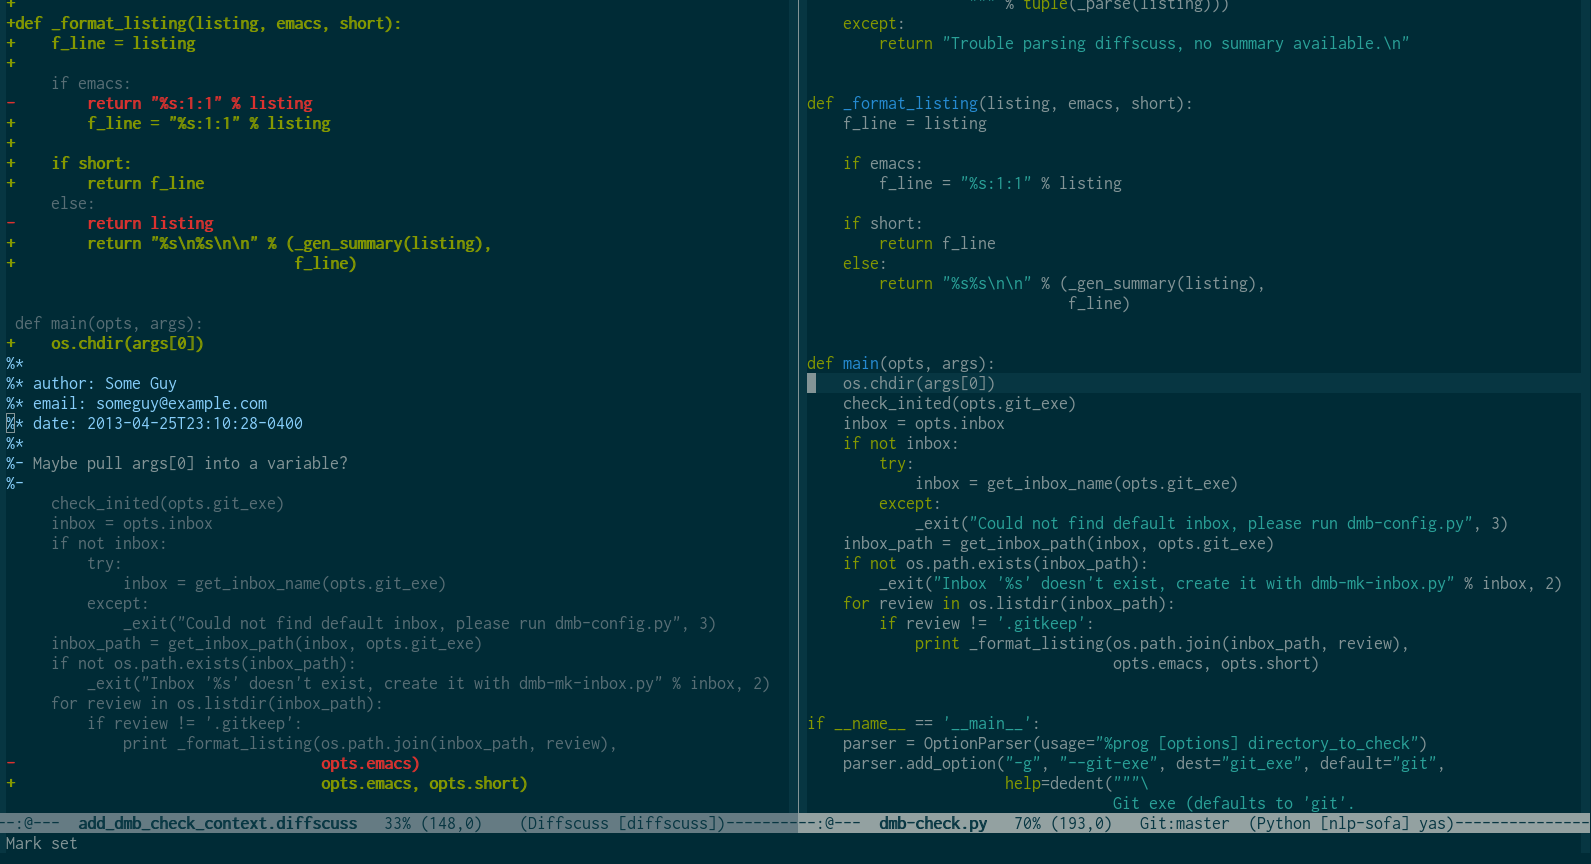
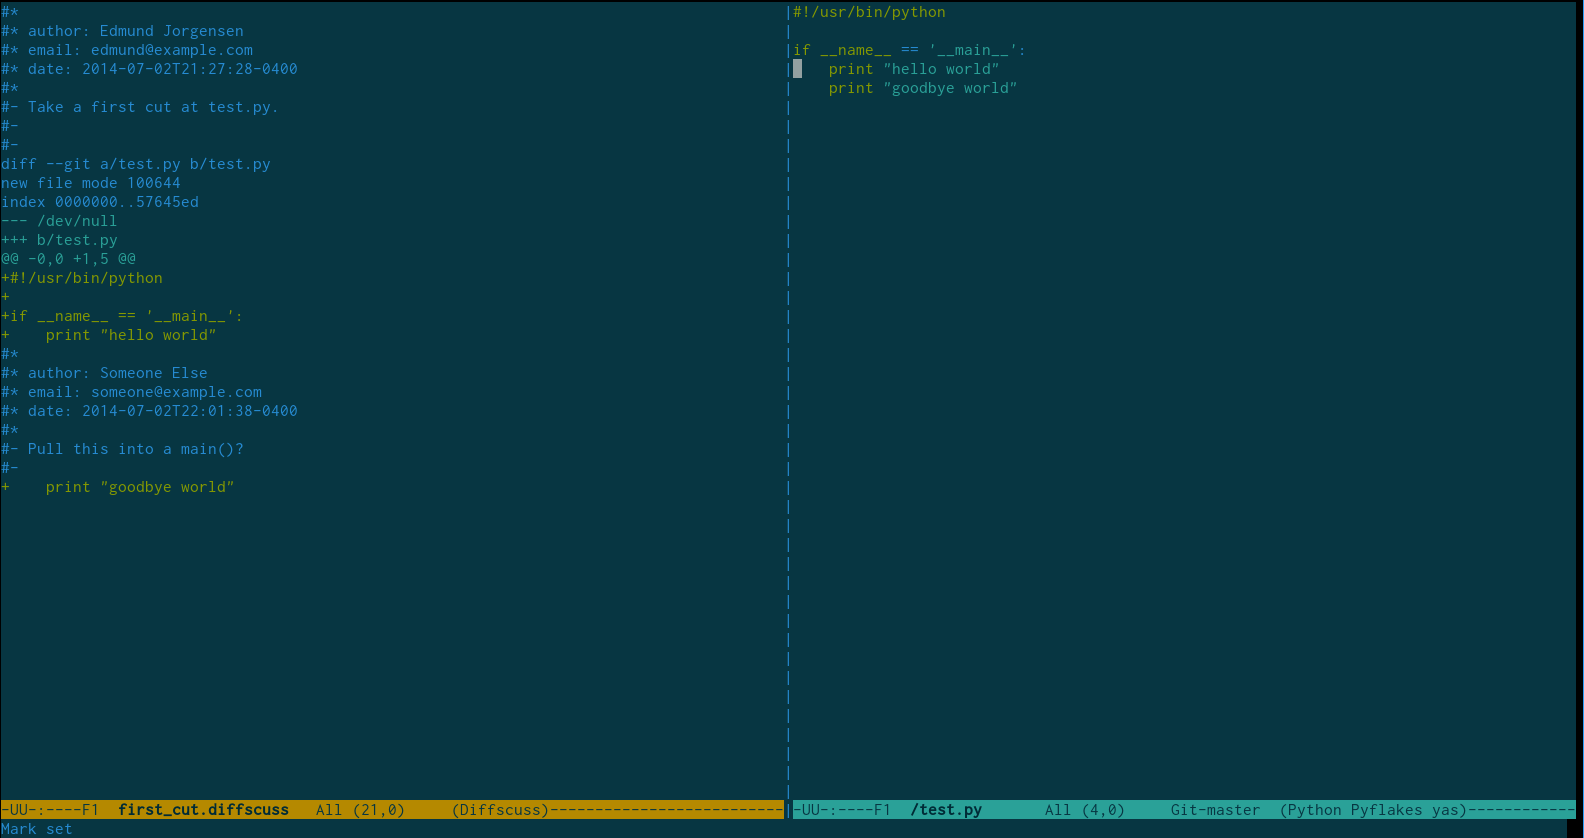
Update README.md and screenshots with new format.
References #36.

diff --git a/README.md b/README.md
@@ -17,8 +17,9 @@ Cheers!
 
 Diffscuss is:
 
-* a file format, built on the the unified diff format, that allows
-  threaded code reviews to exist inline with the diffs they address
+* a file format threaded code reviews to exist inline with the unified
+  diffs they address (any legal diffscuss file is also a legal unified
+  diff)
 
 * an Emacs mode and Vim plugin to support responding to / managing
   code reviews in that format (including jumping directly to the
@@ -60,13 +61,25 @@ Vimmortal, Vim).
 
 ## What Does a Diffscuss Review Look Like?
 
-Screenshot of a Diffscuss review in Emacs:
+Here's a diffscuss file newly created by "Edmund Jorgensen,"
+requesting review for a trivial python file.  Note the comment at the
+top of the file describing the review as a whole.
 
-![Emacs Screenshot](https://github.com/hut8labs/diffscuss/blob/master/doc/diffscuss-reading-review.png?raw=true)
+![Emacs Screenshot](https://github.com/hut8labs/diffscuss/blob/master/doc/diffscuss-created-review.png?raw=true)
 
-After jumping to source:
+In this screenshot, "Someone Else" has read the review and commented
+on the ```print "hello world"``` line.
+
+![Emacs Screenshot](https://github.com/hut8labs/diffscuss/blob/master/doc/diffscuss-added-comment.png?raw=true)
+
+Now "Edmund Jorgensen", while reading the comment, decides to take
+"Someone Else's" suggestion.  He hits ```C-c s``` in Emacs with his
+cursor on "Someone Else's" comment...
 
 ![Emacs Screenshot](https://github.com/hut8labs/diffscuss/blob/master/doc/diffscuss-jump-to-source.png?raw=true)
+
+And Emacs opens up a new buffer with the cursor positioned right on
+the line to which "Someone Else's" comment applied.
 
 ## Why Might You Want to Use Diffscuss?
 
@@ -210,9 +223,11 @@ subcommand.
 
 ## The Format in a Nutshell
 
-Diffscuss adds a single beginning-of-line character to the unified
-diff format: %, which marks the beginning of a comment line.  Lines
-beginning with %* are comment headers, and lines beginning with %- are
+Diffscuss piggybacks on unified diff comments (which are indicated by
+a leading #), with the consequence that a legal diffscuss file is
+still a legal diff, just with some extra comments (which ```patch```
+and related should ignore).  Lines beginning with #* are considered
+diffscuss comment headers, and lines beginning with #- are diffscuss
 comment bodies.  The number of * or - characters indicates reply
 threading.
 
@@ -409,7 +424,7 @@ know--or even better, contribute!
 
 ### Beginning of Line Marker
 
-All Diffscuss lines begin with one '%'.
+All Diffscuss lines begin with either '#*' (for a header) or '#-' (for a body).
 
 There's no limit to the length of a Diffscuss line, but keeping them
 80 chars or less when possible is probably good citizenship, since
@@ -422,11 +437,11 @@ header lines, followed by at least one body line.
 
 ### Header Lines
 
-A header line one '%' followed by at least one '*', followed by a
-space, followed by a header of the format 'field-name: value'.
+A header line is one '#' followed by at least one '*', followed by a space,
+followed by a header of the format 'field-name: value'.
 
-Header lines may also be empty, containing no 'field-name: value', in
-which case the space after the * is also optional.
+Header lines may also be empty, for spacing purposes, containing no
+'field-name: value', in which case the space after the * is also optional.
 
 A header line must always begin a comment or follow another header
 line.
@@ -434,15 +449,15 @@ line.
 For example, all three of these are valid header lines:
 
 ```
-%* author: Bob Jones
+#* author: Bob Jones
 ```
 
 ```
-%**
+#**
 ```
 
 ```
-%*** x-github-version: 1
+#*** x-github-version: 1
 ```
 
 The field name cannot contain whitespace.  The value cannot contain a
@@ -466,13 +481,13 @@ An author line is a standard header line with a field of 'author' and
 a value indicating who authored the comment.  For example:
 
 ```
-%* author: ejorgensen
+#* author: ejorgensen
 ```
 
 Or
 
 ```
-%** author: bsmith
+#** author: bsmith
 ```
 
 Every comment must begin with an author line.  All other headers are
@@ -485,7 +500,7 @@ time zone offset, e.g. 2013-11-22T23:11:21-0400.
 
 ### Body Lines
 
-A body line is one '%' character followed by at least one -, followed
+A body line is one '#' character followed by at least one -, followed
 by a space, followed by arbitrary text.
 
 Exception: for an empty body line, the space is optional.
@@ -493,17 +508,17 @@ Exception: for an empty body line, the space is optional.
 For example:
 
 ```
-%- This is a body line.
+#- This is a body line.
 ```
 
 ```
-%-- And so is *this*.
+#-- And so is *this*.
 ```
 
 ```
-%- and this next body line
-%-
-%- is empty, so doesn't need a space, but could have one.
+#- and this next body line
+#-
+#- is empty, so doesn't need a space, but could have one.
 ```
 
 A body line must always follow a header line or another body line.
@@ -515,26 +530,26 @@ A thread is one or more adjacent comments, properly threaded.
 For example, this is a thread:
 
 ```
-%* author: ejorgensen
-%- I'm a one comment thread.
+#* author: ejorgensen
+#- I'm a one comment thread.
 ```
 
 And so is this:
 
 ```
-%* author: ejorgensen
-%- I'm a two comment thread.
-%* author: bsmith
-%- With no replies, just two top level comments.
+#* author: ejorgensen
+#- I'm a two comment thread.
+#* author: bsmith
+#- With no replies, just two top level comments.
 ```
 
 And so is this:
 
 ```
-%* author: ejorgensen
-%- I'm a two comment thread.
-%** author: bsmith
-%-- With a reply.
+#* author: ejorgensen
+#- I'm a two comment thread.
+#** author: bsmith
+#-- With a reply.
 ```
 
 To be explicit: the nesting / reply level of a thread is determined by
@@ -550,18 +565,18 @@ the closest previous comment with one less level of nesting.  For
 example:
 
 ```
-%* author: ejorgensen
-%- I'm a top-level comment.
-%** author: bsmith
-%-- And I'm a reply.
-%*** author: sjones
-%--- And I'm a reply to the reply.
-%** author: jkidd
-%-- And I'm a second reply to the original top-level comment.
-%* author: mdarks
-%- And I'm another top-level comment.
-%** author: lbutterman
-%-- And I'm a reply to the second top-level comment.
+#* author: ejorgensen
+#- I'm a top-level comment.
+#** author: bsmith
+#-- And I'm a reply.
+#*** author: sjones
+#--- And I'm a reply to the reply.
+#** author: jkidd
+#-- And I'm a second reply to the original top-level comment.
+#* author: mdarks
+#- And I'm another top-level comment.
+#** author: lbutterman
+#-- And I'm a reply to the second top-level comment.
 ```
 #### Position / Target of Threads
 
@@ -570,9 +585,9 @@ above them, so for example in this snippet:
 
 ```
 +It's only just a test
-%* author: ejorgensen
-%- I have grave doubts about this change.  To me it appears foolhardy
-%- and dangerous.
+#* author: ejorgensen
+#- I have grave doubts about this change.  To me it appears foolhardy
+#- and dangerous.
 ```
 
 The comment applies to the line
@@ -589,8 +604,8 @@ assumed to be the entire hunk, for example:
 --- 1.txt	2013-03-07 20:18:10.000000000 -0500
 +++ 2.txt	2013-03-07 20:18:35.000000000 -0500
 @@ -1,5 +1,7 @@
-%* author: ejorgensen
-%- I love this hunk.
+#* author: ejorgensen
+#- I love this hunk.
  This is a test.
 
 -It's just a test
@@ -604,5 +619,5 @@ introductory remarks about what the changes are attempting to achieve,
 "ship it" remarks, etc.).
 
 Every Diffscuss file must begin with such a changeset level thread
-(optionally preceded by any number of "magic" comment lines, e.g. "#
--*- coding: utf-8 -*-").
+(optionally preceded by any number of "magic" comment lines, e.g.
+```# -*- coding: utf-8 -*-```").
